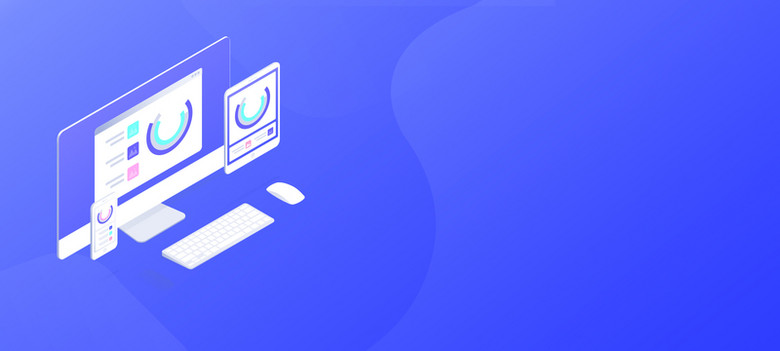
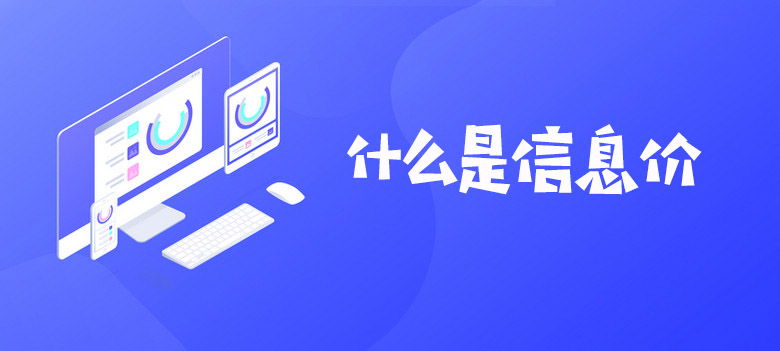
banner图重做

Changed region(s): [[0.4308, 0.3419, 0.9231, 0.5698]]

diff --git a/pages/new-index/new-index.js b/pages/new-index/new-index.js
@@ -18,8 +18,8 @@ Page({
         invalue: '',
         imgUrls: [
           '/images/banner1.jpg',
-          '/images/banner1.jpg',
-          '/images/banner1.jpg',
+          '/images/banner2.jpg',
+          '/images/banner3.jpg',
         ],
         indicatorDots: false,
         autoplay: false,
